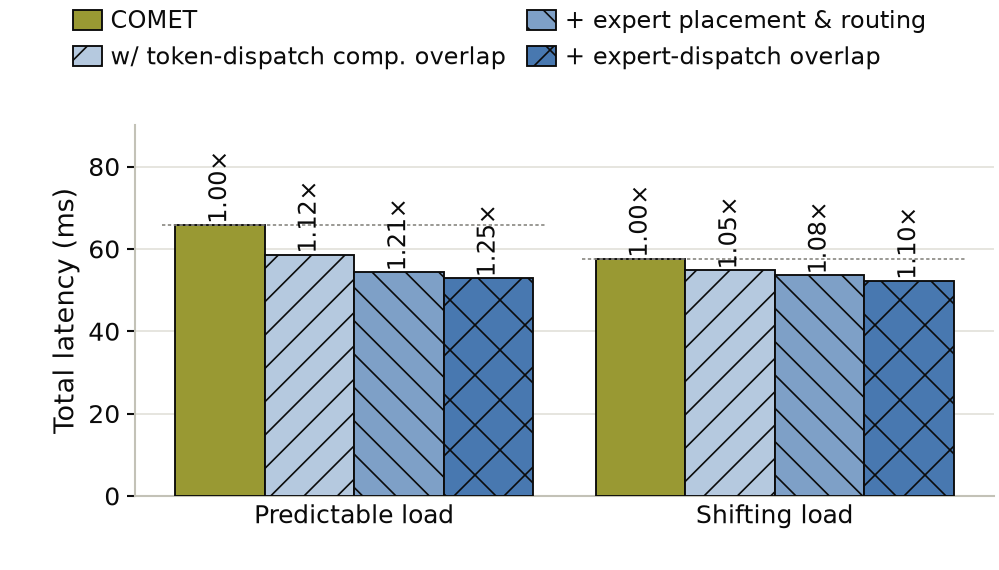
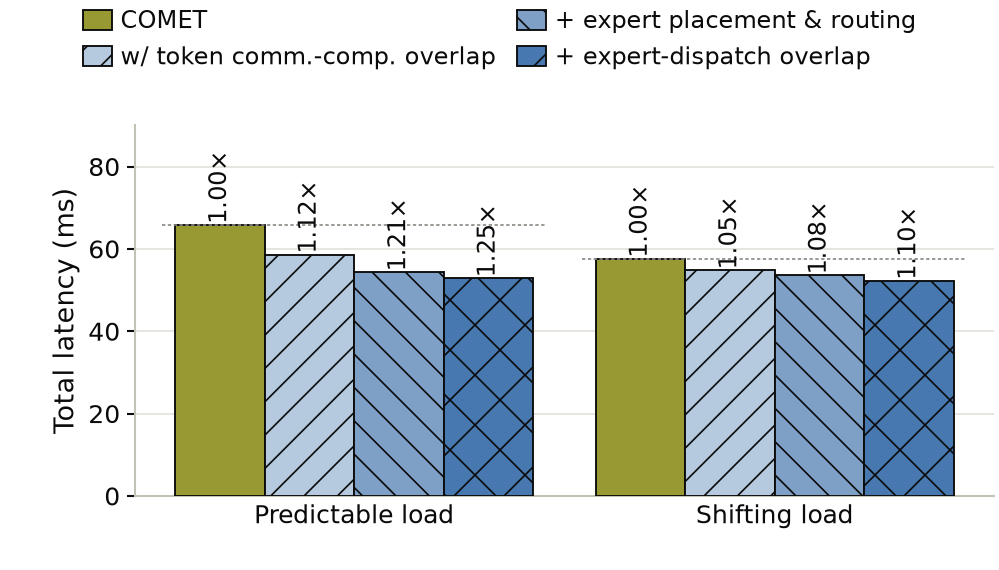
figs/ablation_cycling REV 0.3: legend 'token comm.-comp. overlap' (arm overlaps combine too), summary-style caption recorded in SPEC §7

Changed region(s): [[0.0621, 0.0, 0.9309, 0.1193]]

diff --git a/figs/ablation_cycling/make_figure.py b/figs/ablation_cycling/make_figure.py
@@ -3,8 +3,8 @@
 
 One single-column bar chart, two groups (S-A professional_law cell, S-C
 dwell-4 schedule), a 4-bar feature chain per group, two versions:
-  verA: COMET > w/ token-dispatch overlap > + placement & routing > + expert-dispatch overlap
-  verB: COMET > w/ placement & routing > + token-dispatch overlap > + expert-dispatch overlap
+  verA: COMET > w/ token comm.-comp. overlap > + placement & routing > + expert-dispatch overlap
+  verB: COMET > w/ placement & routing > + token comm.-comp. overlap > + expert-dispatch overlap
 Reads figure_src.csv only.  Every adjustable parameter is in KNOBS.
     python figs/ablation_cycling/make_figure.py            # both versions
     python figs/ablation_cycling/make_figure.py --version A
@@ -29,12 +29,12 @@ KNOBS = dict(
     MARGINS=dict(left=0.135, right=0.995, bottom=0.13, top=0.78),
     VERSIONS={                                    # chain per version: (tidy arm key, legend text)
         "A": [("COMET", "COMET"),
-              ("slip", "w/ token-dispatch comp. overlap"),
+              ("slip", "w/ token comm.-comp. overlap"),
               ("static", "+ expert placement & routing"),
               ("swap", "+ expert-dispatch overlap")],
         "B": [("COMET", "COMET"),
               ("pr0", "w/ expert placement & routing"),
-              ("static", "+ token-dispatch comp. overlap"),
+              ("static", "+ token comm.-comp. overlap"),
               ("swap", "+ expert-dispatch overlap")],
     },
     SWAP_ARM="full",                              # "full" = composed full-orbit swap, "one" = one-round swap

diff --git a/figs/ablation_cycling/SPEC.md b/figs/ablation_cycling/SPEC.md
@@ -35,8 +35,8 @@ two versions **[knob: VERSION]**:
 | bar | verA (comm first) | verB (placement first) |
 |---|---|---|
 | 1 | COMET | COMET |
-| 2 | w/ token-dispatch computation overlap | w/ expert placement & routing |
-| 3 | + expert placement & routing | + token-dispatch computation overlap |
+| 2 | w/ token comm.-comp. overlap | w/ expert placement & routing |
+| 3 | + expert placement & routing | + token comm.-comp. overlap |
 | 4 | + expert-dispatch overlap (composed expert swap, overlapped) | same |
 
 Bar 3 is the same arm in both versions (`1+2 (no expert movement)`); bar
@@ -110,7 +110,7 @@ reads as a reported miss rather than a typo.
 - Legend **[knob: LEGEND]** on top, outside the axes, flush to the top
   edge, one row of 4 swatches (fill+hatch+edge), 6 pt, no frame, column
   spacing 0.8; falls to 2+2 if it oversets 3.33 in at final size. Texts
-  **[knob: LEGEND_TEXTS]**: verA `COMET`, `w/ token-dispatch comp. overlap`,
+  **[knob: LEGEND_TEXTS]**: verA `COMET`, `w/ token comm.-comp. overlap`,
   `+ expert placement & routing`, `+ expert-dispatch overlap`; verB swaps
   the middle two. The `+` prefix encodes the cumulative stack.
 - Font **[knob: FONT_FAMILY]**: `["Helvetica", "Arial", "DejaVu Sans"]`;
@@ -148,16 +148,17 @@ preview), deterministic PDFs (fixed metadata, `pdf.fonttype 42`).
 4. Legend reads left-to-right in the same order as the bars.
 5. Grayscale print: the four fills remain distinguishable by hatch alone.
 
-## 7. Caption skeleton (for the paper, not drawn)
+## 7. Caption (summary style, user draft 2026-09-04)
 
-"Ablation at K2, 4 nodes, 64 MiB per rank. Bars accumulate optimizations
-left to right; labels give the speedup over COMET. S-A: placement solved
-on the previous window of the 8-topic mix, traffic from professional_law
-(the mix's hardest topic), 4 reps. S-C: the same 8 topics cycled 4
-iterations each with the placement carried over and professional_law
-excluded from the placement basis, 3 reps. Placement-only exceeds COMET on
-S-C (0.98×) because it has no communication overlap to absorb the
-out-of-basis block; combined with the overlap it leads."
+"Ablation study on {SYS} component performance. Comparison of the COMET
+baseline against token comm.-comp. overlap, expert placement & routing,
+and expert-dispatch overlap optimizations. Performed on Kimi K2 traces on
+a 4-node, 16-GPU cluster with 64 MiB of tokens per GPU across two
+scenarios." Scenario definitions (predictable load = placement solved on
+the previous window of the 8-topic mix, evaluated on professional law;
+shifting load = 8 topics cycled 4 iterations each, professional law
+withheld from the basis; 4 / 3 runs) and the verB 0.98x miss are body
+text. Optimization names must match the legend verbatim.
 
 ## 8. Revision log
 
@@ -178,3 +179,8 @@ out-of-basis block; combined with the overlap it leads."
   drifting workload" and "in-/out-of-basis topic"); axes bottom margin
   0.17 → 0.13 with the second label line gone. Specifics move to the
   caption (§7), justification to the text. Numbers unchanged.
+- **REV 0.3 (2026-09-04)** — legend entry `token-dispatch comp. overlap`
+  → `token comm.-comp. overlap` (the arm overlaps the layer-1 combine as
+  well as the layer-0 dispatch, so "dispatch" undersold it). Caption
+  (§7) switched to the user's summary style: components + setup only,
+  scenario definitions live in the text; terms match the legend verbatim.
